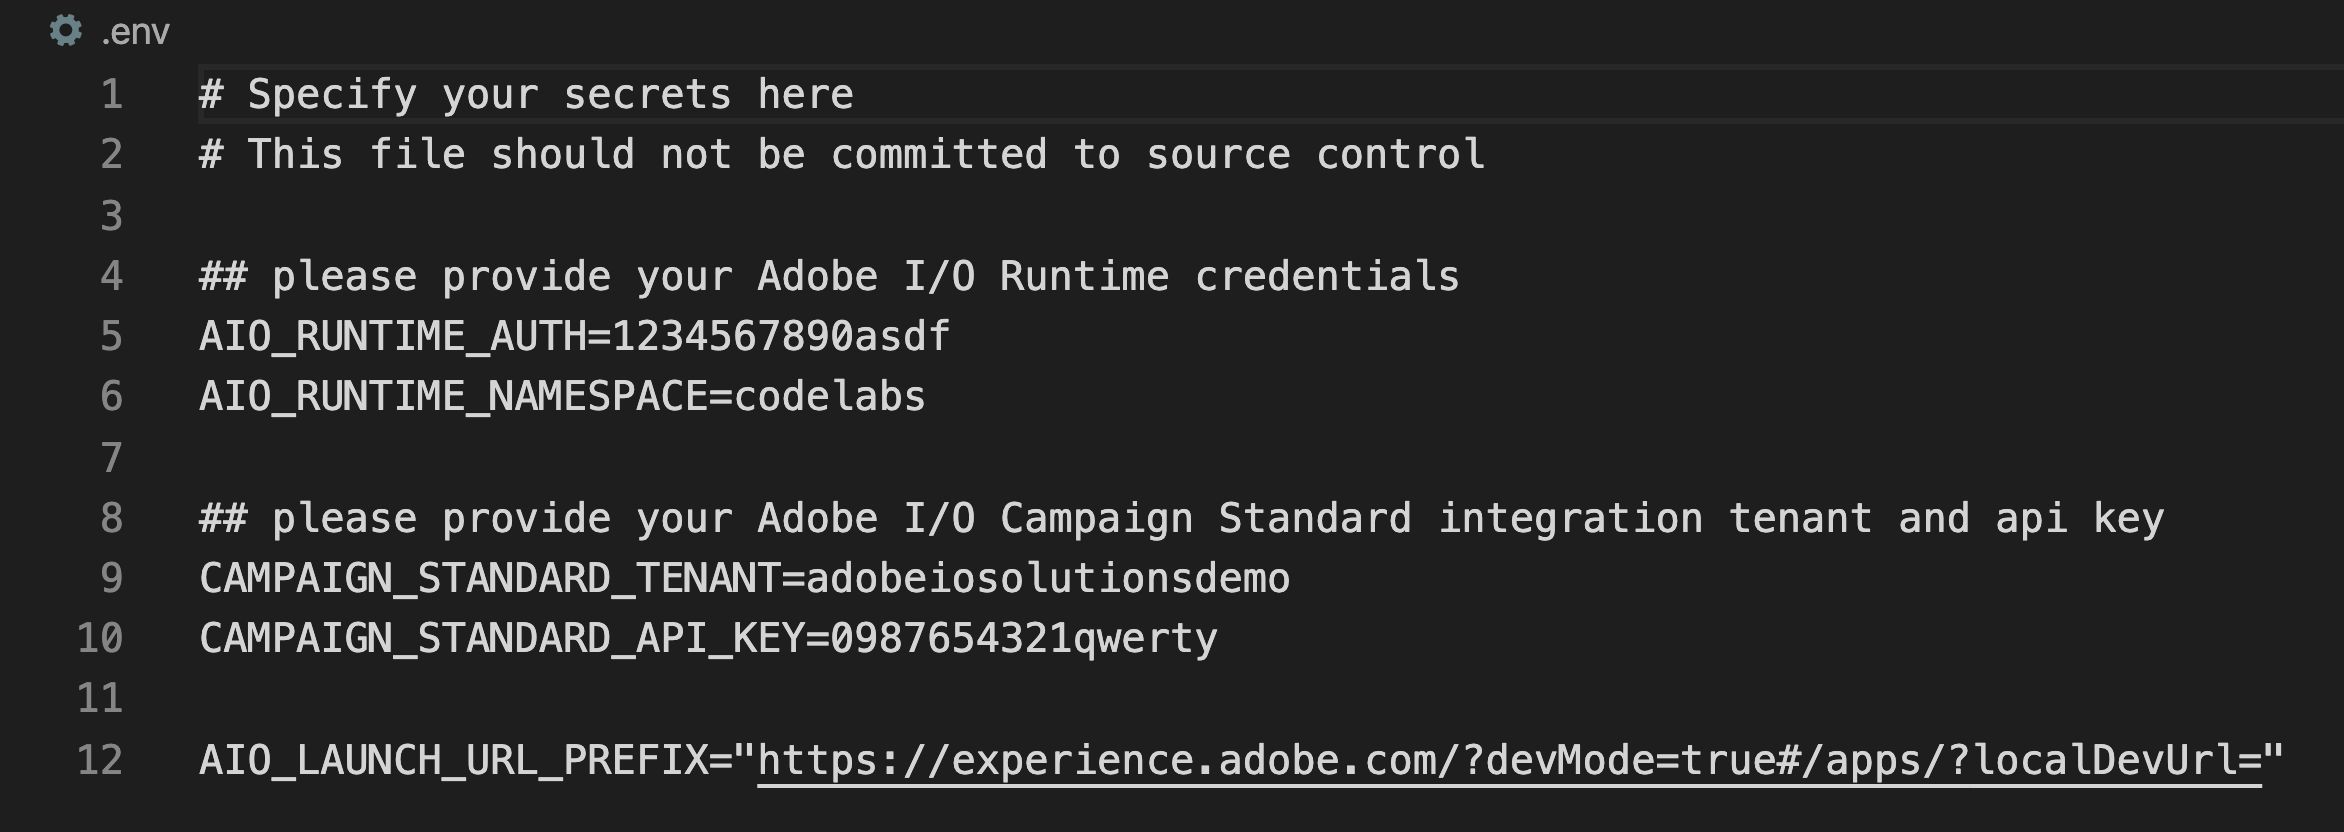
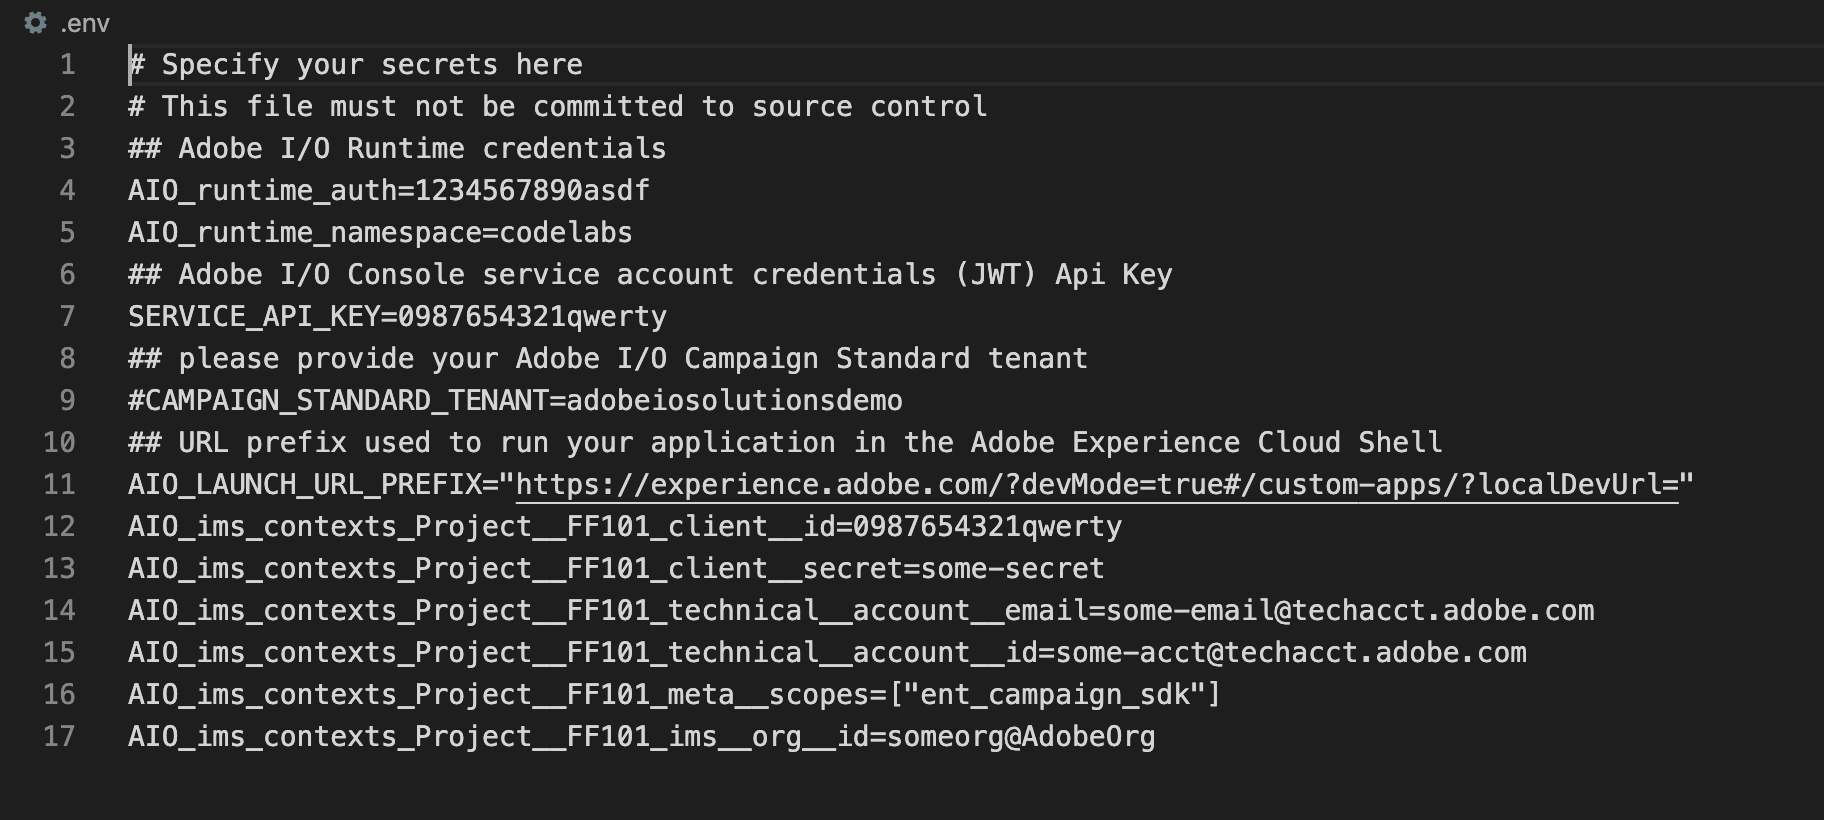
Update codelab content to latest tooling versions

Changed region(s): [[0.0312, 0.5793, 0.9688, 0.9451], [0.0312, 0.2744, 0.7812, 0.5488], [0.0, 0.0, 0.625, 0.2744]]

diff --git a/lessons/lesson1.md b/lessons/lesson1.md
@@ -6,15 +6,15 @@ To initialize a Firefly app, let's use init command from the CLI.
 aio app init customers-dashboard
 ```
 
-You're presented with a few options what you want your app to include (serverless actions, web UI assets, CI/CD pipeline). In this lab, we keep all of them.
+You should be selecting the org, project and workspace for your app, and then presented with a few options what you want your app to include (serverless actions, web UI assets, CI/CD pipeline, events). In this lab, we keep all except events.
 
-The second question asks you to select the sample actions to be created as part of the initial app. As customer profiles are pulled from Campaign Standard, we are going to select `Adobe Campaign Standard` for this question (by pressing `<Space>` to select / de-select, and `<Enter>` to confirm the choice).
+The next question asks you to select the sample actions to be created as part of the initial app. As customer profiles are pulled from Campaign Standard, we are going to select `Adobe Campaign Standard` for this question (by pressing `<Space>` to select / de-select, and `<Enter>` to confirm the choice).
 
 Then you will be asked to specify the names of the sample action. Let's name it `get-profiles`.
 
 ![app-init](assets/app-init.png)
 
-What happens next, is that from the command line a developer project is created including the Adobe I/O Runtime actions, configuration files, tests etc. You could explore your project in VS Code, either by opening VSCode -> Open... -> select app folder, or typing the following command.
+What happens next, is that from the command line a NodeJS project is created including the Adobe I/O Runtime actions, configuration files, tests etc. You could explore your project in VS Code, either by opening VSCode -> Open... -> select app folder, or typing the following command.
 
 ```bash
 code customers-dashboard

diff --git a/lessons/lesson2.md b/lessons/lesson2.md
@@ -10,11 +10,11 @@ Then `manifest.yml` is the cockpit of your Firefly app backend. It lists the dec
 get-profiles:
   function: actions/get-profiles/index.js
   web: 'yes'
-  runtime: 'nodejs:10'
+  runtime: 'nodejs:12'
   inputs:
     LOG_LEVEL: debug
     tenant: $CAMPAIGN_STANDARD_TENANT
-    apiKey: $CAMPAIGN_STANDARD_API_KEY
+    apiKey: $SERVICE_API_KEY
   annotations:
     require-adobe-auth: true
     final: true
@@ -23,7 +23,7 @@ get-profiles:
 Currently your app only has one action `get-profiles`.
 * Source code is at `actions/get-profiles/index.js`
 * It is a [web action](https://github.com/AdobeDocs/adobeio-runtime/blob/master/guides/creating_actions.md#invoking-web-actions)
-* The action will be run in the `nodejs:10` [runtime container on I/O Runtime](https://github.com/AdobeDocs/adobeio-runtime/blob/master/reference/runtimes.md)
+* The action will be run in the `nodejs:12` [runtime container on I/O Runtime](https://github.com/AdobeDocs/adobeio-runtime/blob/master/reference/runtimes.md)
 * It has some [default params](https://github.com/AdobeDocs/adobeio-runtime/blob/master/guides/creating_actions.md#working-with-parameters) such as `LOG_LEVEL`, `tenant`, `apiKey`, which are automatically available in the `params` object of the action without passing it to the action for every invocation. The `final` annotation set as `true` tells that those params are immutable.
 * Setting the `require-adobe-auth` annotation as `true` enables this action to be protected by Adobe IMS user token in the request header. Without it, the action will return `401 Unauthorized` error.
 

diff --git a/lessons/lesson5.md b/lessons/lesson5.md
@@ -106,7 +106,7 @@ send-promo:
   inputs:
     LOG_LEVEL: debug
     tenant: $CAMPAIGN_STANDARD_TENANT
-    apiKey: $CAMPAIGN_STANDARD_API_KEY
+    apiKey: $SERVICE_API_KEY
     workflowId: $CAMPAIGN_STANDARD_WORKFLOW_ID
   annotations:
     require-adobe-auth: true
@@ -190,8 +190,8 @@ async sendPromo (email) {
     if (this.props.ims.token && !headers.authorization) {
       headers.authorization = 'Bearer ' + this.props.ims.token
     }
-    if (this.props.ims.org && !headers['x-org-id']) {
-      headers['x-org-id'] = this.props.ims.org
+    if (this.props.ims.org && !headers['x-gw-ims-org-id']) {
+      headers['x-gw-ims-org-id'] = this.props.ims.org
     }
     const actionResponse = await actionWebInvoke('send-promo', headers, { email })
     console.log(`Response from send-promo:`, actionResponse)

diff --git a/lessons/lesson4.md b/lessons/lesson4.md
@@ -33,8 +33,8 @@ async componentWillMount () {
   if (this.props.ims.token && !headers.authorization) {
     headers.authorization = 'Bearer ' + this.props.ims.token
   }
-  if (this.props.ims.org && !headers['x-org-id']) {
-    headers['x-org-id'] = this.props.ims.org
+  if (this.props.ims.org && !headers['x-gw-ims-org-id']) {
+    headers['x-gw-ims-org-id'] = this.props.ims.org
   }
   try {
     const actionResponse = await actionWebInvoke('get-profiles', headers, params)
